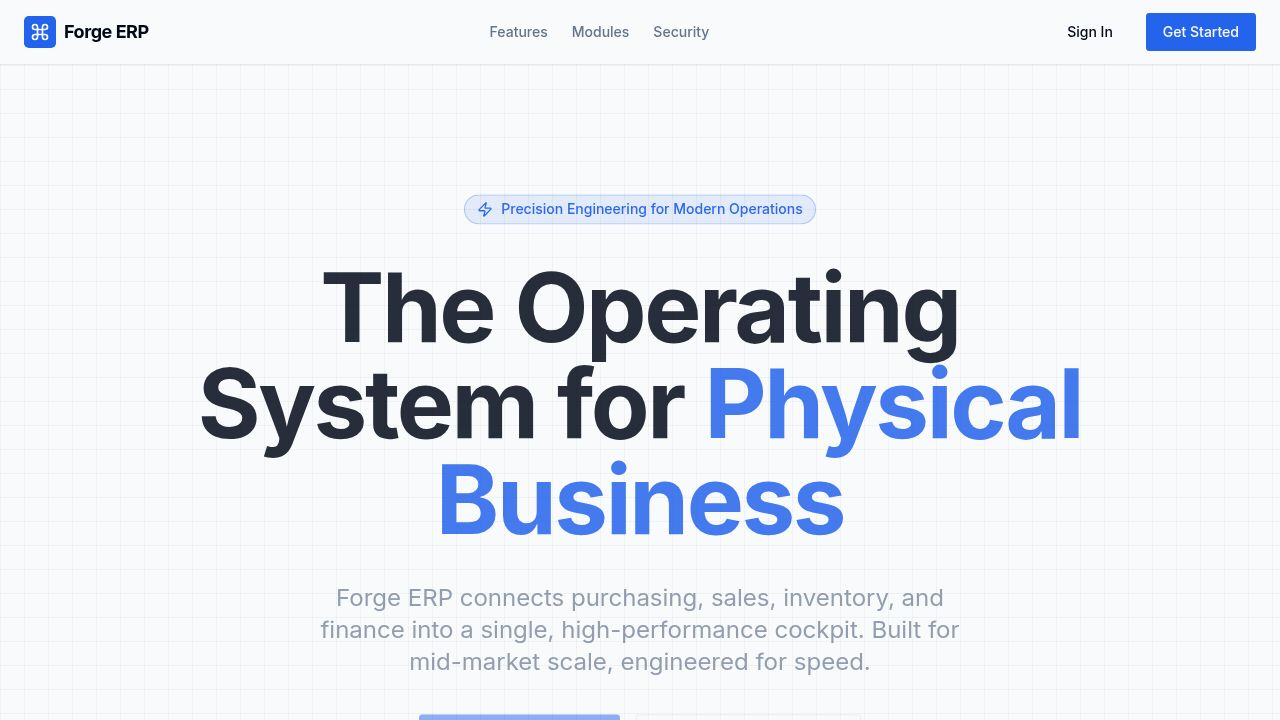
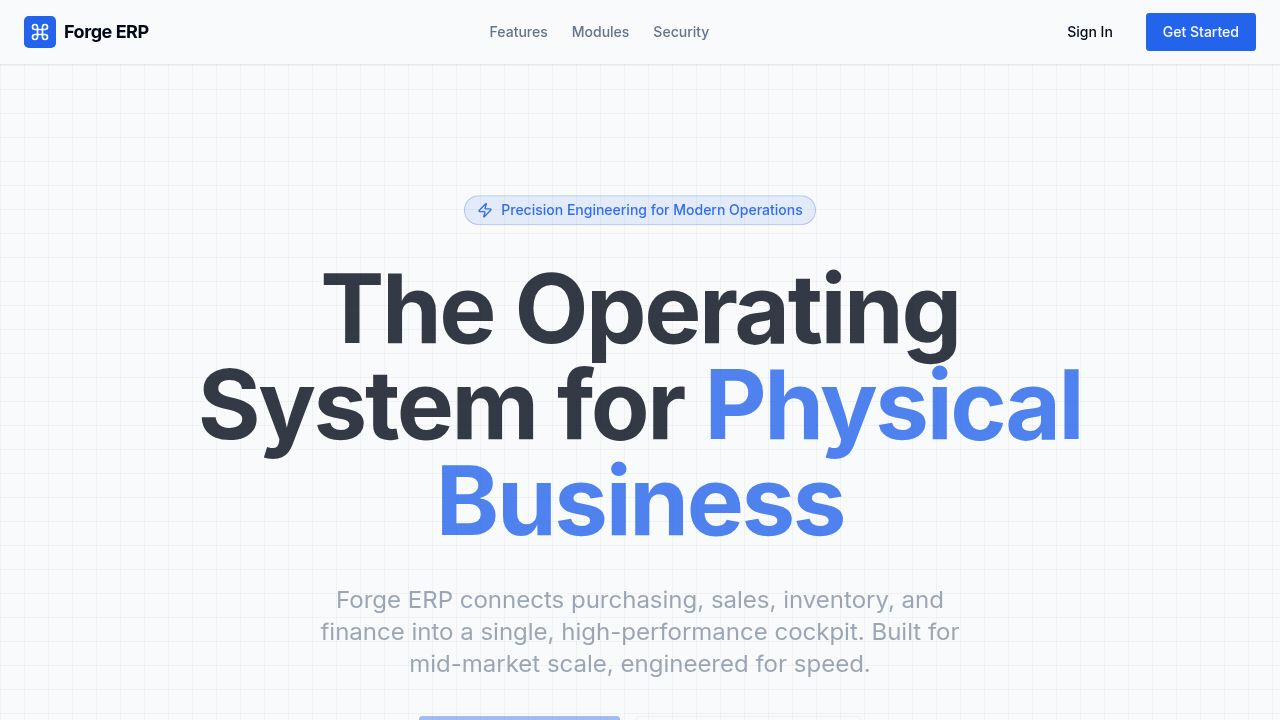
Task #58: Add Preferred Supplier, Supplier Item Number, and Alternative Suppliers to items
- Schema: added `preferred_supplier_id` (integer FK → suppliers.id, ON DELETE SET NULL) and `supplier_item_number` (text) to itemsTable. NOTE: this project uses `drizzle-kit push` exclusively (no migrations directory; only `push` / `push-force` scripts in lib/db/package.json), so the schema is the source of truth. Pushed to DB and FK constraint verified via `\d items`.
- OpenAPI: extended MasterItem and CreateItemBody with the two new fields; MasterItemDetail also returns preferredSupplierName.
- API: BOTH item GET endpoints (`/items/:id` and `/items/lookup?code=`) now resolve and return preferredSupplierName from suppliers; itemCreateSchema (POST + PATCH) accepts the new fields.
- UI (Item modal): new "Supplier" section with Preferred Supplier select (driven by useListSuppliers), Supplier Item Number input, and an Alternative Suppliers sub-panel that reads/writes item_cross_references rows where ref_type='alternative' AND supplier_id is set. Supplier item # is required when adding an alternative supplier (matches API refCode min(1)).
- Generic Cross-References panel: removed the "Alternative" type option, hides alternative-supplier rows from its display, and preserves them on save so the new sub-panel remains the source of truth.
- Codegen + typecheck pass; e2e test (Clerk auth) verified the Supplier section renders, values persist across reopens, and Cross-References dropdown only offers Cross/Competitor.

Replit-Task-Id: d4697e12-ed37-462c-97b1-18344717ca61

diff --git a/artifacts/forge-erp/src/pages/master-data.tsx b/artifacts/forge-erp/src/pages/master-data.tsx
@@ -641,6 +641,7 @@ type CrossRefEntry = {
   refType: string;
   refCode: string;
   refDescription?: string;
+  supplierId?: number;
   competitorName?: string;
   competitorPrice?: string;
 };
@@ -652,31 +653,49 @@ function ItemCrossRefsPanel({ itemId }: { itemId: number }) {
   const crossRefs = (data?.crossRefs ?? []) as ItemCrossReference[];
 
   const [localRefs, setLocalRefs] = useState<CrossRefEntry[]>([]);
-  const [newType, setNewType] = useState("alternative");
+  const [newType, setNewType] = useState("cross");
   const [newCode, setNewCode] = useState("");
   const [newDesc, setNewDesc] = useState("");
   const [newCompetitorName, setNewCompetitorName] = useState("");
   const [newCompetitorPrice, setNewCompetitorPrice] = useState("");
 
   useEffect(() => {
-    setLocalRefs(crossRefs.map((r) => ({
-      refType: r.refType ?? "alternative",
-      refCode: r.refCode ?? "",
-      refDescription: r.refDescription ?? undefined,
-      competitorName: (r as { competitorName?: string }).competitorName ?? undefined,
-      competitorPrice: (r as { competitorPrice?: string }).competitorPrice ?? undefined,
-    })));
+    // Alternative-supplier rows (refType=alternative with supplierId) are now
+    // surfaced via the AlternativeSuppliersPanel — exclude them here.
+    setLocalRefs(crossRefs
+      .filter((r) => !(r.refType === "alternative" && (r as { supplierId?: number | null }).supplierId))
+      .map((r) => ({
+        refType: r.refType ?? "cross",
+        refCode: r.refCode ?? "",
+        refDescription: r.refDescription ?? undefined,
+        supplierId: (r as { supplierId?: number | null }).supplierId ?? undefined,
+        competitorName: (r as { competitorName?: string }).competitorName ?? undefined,
+        competitorPrice: (r as { competitorPrice?: string }).competitorPrice ?? undefined,
+      })));
   }, [data]);
 
   const save = async (updated: CrossRefEntry[]) => {
     try {
-      const payload: ItemCrossReferenceInput[] = updated.map((r) => ({
-        refType: r.refType as ItemCrossReferenceInput["refType"],
-        refCode: r.refCode,
-        refDescription: r.refDescription,
-        competitorName: r.competitorName,
-        competitorPrice: r.competitorPrice ? Number(r.competitorPrice) : undefined,
-      }));
+      // Preserve alternative-supplier rows owned by AlternativeSuppliersPanel
+      const altSupplierRows: ItemCrossReferenceInput[] = crossRefs
+        .filter((r) => r.refType === "alternative" && (r as { supplierId?: number | null }).supplierId)
+        .map((r) => ({
+          refType: "alternative" as const,
+          refCode: r.refCode ?? "",
+          refDescription: r.refDescription ?? undefined,
+          supplierId: (r as { supplierId?: number | null }).supplierId ?? undefined,
+        }));
+      const payload: ItemCrossReferenceInput[] = [
+        ...altSupplierRows,
+        ...updated.map((r) => ({
+          refType: r.refType as ItemCrossReferenceInput["refType"],
+          refCode: r.refCode,
+          refDescription: r.refDescription,
+          supplierId: r.supplierId,
+          competitorName: r.competitorName,
+          competitorPrice: r.competitorPrice ? Number(r.competitorPrice) : undefined,
+        })),
+      ];
       await setCrossRefs.mutateAsync({ id: itemId, data: payload });
       toast({ title: "Cross-references saved" });
       refetch();
@@ -707,6 +726,7 @@ function ItemCrossRefsPanel({ itemId }: { itemId: number }) {
   return (
     <div className="space-y-3 pt-2 border-t">
       <h4 className="text-sm font-semibold">Cross-References &amp; Competitor Pricing</h4>
+      <p className="text-xs text-muted-foreground">For supplier alternatives, use the Supplier section above.</p>
       {localRefs.length > 0 ? (
         <div className="rounded border divide-y text-sm">
           {localRefs.map((r, i) => (
@@ -729,7 +749,6 @@ function ItemCrossRefsPanel({ itemId }: { itemId: number }) {
           <Select value={newType} onValueChange={setNewType}>
             <SelectTrigger className="h-8 text-xs w-32"><SelectValue /></SelectTrigger>
             <SelectContent>
-              <SelectItem value="alternative">Alternative</SelectItem>
               <SelectItem value="cross">Cross</SelectItem>
               <SelectItem value="competitor">Competitor</SelectItem>
             </SelectContent>
@@ -744,6 +763,118 @@ function ItemCrossRefsPanel({ itemId }: { itemId: number }) {
           </div>
         )}
         <Button size="sm" className="h-8" onClick={addRef} disabled={setCrossRefs.isPending || !newCode.trim()}>
+          <Plus className="h-3 w-3 mr-1" /> Add
+        </Button>
+      </div>
+    </div>
+  );
+}
+
+// ─── Alternative Suppliers Panel ──────────────────────────────────────────────
+
+type AltSupplierEntry = {
+  supplierId: number;
+  supplierItemNumber: string;
+};
+
+function AlternativeSuppliersPanel({ itemId }: { itemId: number }) {
+  const { toast } = useToast();
+  const { data, refetch } = useGetItem(itemId);
+  const setCrossRefs = useSetItemCrossReferences();
+  const suppliersQ = useListSuppliers({ limit: 200 });
+  const suppliers = suppliersQ.data?.suppliers ?? [];
+  const crossRefs = (data?.crossRefs ?? []) as ItemCrossReference[];
+
+  const [local, setLocal] = useState<AltSupplierEntry[]>([]);
+  const [newSupplierId, setNewSupplierId] = useState<string>("");
+  const [newPart, setNewPart] = useState("");
+
+  useEffect(() => {
+    setLocal(
+      crossRefs
+        .filter((r) => r.refType === "alternative" && (r as { supplierId?: number | null }).supplierId)
+        .map((r) => ({
+          supplierId: (r as { supplierId?: number | null }).supplierId as number,
+          supplierItemNumber: r.refCode ?? "",
+        })),
+    );
+  }, [data]);
+
+  const save = async (updatedAlts: AltSupplierEntry[]) => {
+    try {
+      // Preserve all non-alternative-supplier rows (cross, competitor, alternative w/o supplier).
+      const others: ItemCrossReferenceInput[] = crossRefs
+        .filter((r) => !(r.refType === "alternative" && (r as { supplierId?: number | null }).supplierId))
+        .map((r) => ({
+          refType: (r.refType ?? "cross") as ItemCrossReferenceInput["refType"],
+          refCode: r.refCode ?? "",
+          refDescription: r.refDescription ?? undefined,
+          supplierId: (r as { supplierId?: number | null }).supplierId ?? undefined,
+          competitorName: (r as { competitorName?: string | null }).competitorName ?? undefined,
+          competitorPrice: (r as { competitorPrice?: string | null }).competitorPrice
+            ? Number((r as { competitorPrice?: string }).competitorPrice) : undefined,
+        }));
+      const payload: ItemCrossReferenceInput[] = [
+        ...others,
+        ...updatedAlts.map((a) => ({
+          refType: "alternative" as const,
+          refCode: a.supplierItemNumber.trim(),
+          supplierId: a.supplierId,
+        })),
+      ];
+      await setCrossRefs.mutateAsync({ id: itemId, data: payload });
+      toast({ title: "Alternative suppliers saved" });
+      refetch();
+    } catch (e: unknown) { toast({ title: "Error", description: (e as Error).message, variant: "destructive" }); }
+  };
+
+  const addAlt = () => {
+    if (!newSupplierId || !newPart.trim()) return;
+    const entry: AltSupplierEntry = {
+      supplierId: Number(newSupplierId),
+      supplierItemNumber: newPart.trim(),
+    };
+    const updated = [...local, entry];
+    setLocal(updated);
+    setNewSupplierId(""); setNewPart("");
+    save(updated);
+  };
+
+  const removeAlt = (idx: number) => {
+    const updated = local.filter((_, i) => i !== idx);
+    setLocal(updated);
+    save(updated);
+  };
+
+  const supplierName = (id: number) => suppliers.find((s) => s.id === id)?.name ?? `Supplier #${id}`;
+
+  return (
+    <div className="space-y-2">
+      <Label className="text-sm font-medium">Alternative Suppliers</Label>
+      {local.length > 0 ? (
+        <div className="rounded border divide-y text-sm">
+          {local.map((a, i) => (
+            <div key={i} className="flex items-center gap-2 px-3 py-1.5">
+              <span className="flex-1 text-xs font-medium">{supplierName(a.supplierId)}</span>
+              <span className="text-muted-foreground text-xs font-mono">{a.supplierItemNumber}</span>
+              <Button variant="ghost" size="icon" className="h-6 w-6" onClick={() => removeAlt(i)}>
+                <Trash2 className="h-3 w-3 text-destructive" />
+              </Button>
+            </div>
+          ))}
+        </div>
+      ) : <p className="text-xs text-muted-foreground">No alternative suppliers yet.</p>}
+      <div className="flex gap-2 items-end">
+        <div className="flex-1">
+          <Select value={newSupplierId} onValueChange={setNewSupplierId}>
+            <SelectTrigger className="h-8 text-xs"><SelectValue placeholder="Choose supplier…" /></SelectTrigger>
+            <SelectContent>
+              {suppliers.map((s) => <SelectItem key={s.id} value={String(s.id)}>{s.name}</SelectItem>)}
+            </SelectContent>
+          </Select>
+        </div>
+        <Input value={newPart} onChange={(e) => setNewPart(e.target.value)} placeholder="Supplier item # (required)" className="h-8 text-xs w-40" />
+        <Button size="sm" className="h-8" onClick={addAlt} disabled={!newSupplierId || !newPart.trim() || setCrossRefs.isPending}>
           <Plus className="h-3 w-3 mr-1" /> Add
         </Button>
       </div>
@@ -1259,6 +1390,9 @@ function ItemModal({
     },
   });
 
+  const suppliersQ = useListSuppliers({ limit: 200 });
+  const suppliers = suppliersQ.data?.suppliers ?? [];
+
   useEffect(() => {
     if (open) {
       reset({
@@ -1274,6 +1408,8 @@ function ItemModal({
         category: item?.category ?? "",
         notes: item?.notes ?? "",
         isActive: item?.isActive ?? true,
+        preferredSupplierId: (item as { preferredSupplierId?: number | null })?.preferredSupplierId ?? null,
+        supplierItemNumber: (item as { supplierItemNumber?: string | null })?.supplierItemNumber ?? "",
       });
     }
   }, [open, item, reset]);
@@ -1350,6 +1486,35 @@ function ItemModal({
           <FormField label="Category">
             <Input {...register("category")} />
           </FormField>
+          <div className="space-y-3 pt-3 border-t">
+            <h4 className="text-sm font-semibold">Supplier</h4>
+            <div className="grid grid-cols-2 gap-4">
+              <FormField label="Preferred Supplier">
+                <Controller
+                  control={control}
+                  name="preferredSupplierId"
+                  render={({ field }) => (
+                    <Select
+                      value={field.value != null ? String(field.value) : "__none__"}
+                      onValueChange={(v) => field.onChange(v === "__none__" ? null : Number(v))}
+                    >
+                      <SelectTrigger><SelectValue placeholder="None" /></SelectTrigger>
+                      <SelectContent>
+                        <SelectItem value="__none__">None</SelectItem>
+                        {suppliers.map((s) => (
+                          <SelectItem key={s.id} value={String(s.id)}>{s.name}</SelectItem>
+                        ))}
+                      </SelectContent>
+                    </Select>
+                  )}
+                />
+              </FormField>
+              <FormField label="Supplier Item Number">
+                <Input {...register("supplierItemNumber")} placeholder="Supplier's part #" />
+              </FormField>
+            </div>
+            {isEdit && item?.id && <AlternativeSuppliersPanel itemId={item.id} />}
+          </div>
           <div className="flex items-center gap-2">
             <Controller control={control} name="isActive" render={({ field }) => (
               <Switch checked={field.value ?? true} onCheckedChange={field.onChange} id="item-active" />

diff --git a/artifacts/api-server/src/routes/master-data.ts b/artifacts/api-server/src/routes/master-data.ts
@@ -160,7 +160,17 @@ router.get(
       withTenantDb(tenantId, (db) => db.select().from(itemLocationsTable).where(and(eq(itemLocationsTable.itemId, id), eq(itemLocationsTable.tenantId, tenantId)))),
       withTenantDb(tenantId, (db) => db.select().from(itemCrossReferencesTable).where(and(eq(itemCrossReferencesTable.itemId, id), eq(itemCrossReferencesTable.tenantId, tenantId)))),
     ]);
-    res.json({ ...items[0], variants, attributes, locations, crossRefs });
+    let preferredSupplierName: string | null = null;
+    const prefId = (items[0] as { preferredSupplierId?: number | null }).preferredSupplierId;
+    if (prefId) {
+      const sup = await withTenantDb(tenantId, (db) =>
+        db.select({ name: suppliersTable.name }).from(suppliersTable)
+          .where(and(eq(suppliersTable.id, prefId), eq(suppliersTable.tenantId, tenantId)))
+          .limit(1),
+      );
+      preferredSupplierName = sup[0]?.name ?? null;
+    }
+    res.json({ ...items[0], preferredSupplierName, variants, attributes, locations, crossRefs });
   },
 );
 
@@ -198,7 +208,18 @@ router.get(
     ]);
 
     if (!item[0]) { res.status(404).json({ error: "Item not found" }); return; }
-    res.json({ ...item[0], variants, attributes, locations, crossRefs });
+
+    let preferredSupplierName: string | null = null;
+    const prefId = (item[0] as { preferredSupplierId?: number | null }).preferredSupplierId;
+    if (prefId) {
+      const sup = await withTenantDb(tenantId, (db) =>
+        db.select({ name: suppliersTable.name }).from(suppliersTable)
+          .where(and(eq(suppliersTable.id, prefId), eq(suppliersTable.tenantId, tenantId)))
+          .limit(1),
+      );
+      preferredSupplierName = sup[0]?.name ?? null;
+    }
+    res.json({ ...item[0], preferredSupplierName, variants, attributes, locations, crossRefs });
   },
 );
 
@@ -219,6 +240,8 @@ const itemCreateSchema = z.object({
   isActive: z.boolean().default(true),
   hasVariants: z.boolean().default(false),
   notes: z.string().optional(),
+  preferredSupplierId: z.number().int().nullable().optional(),
+  supplierItemNumber: z.string().nullable().optional(),
 });
 
 router.post(

diff --git a/lib/db/src/schema/master_data.ts b/lib/db/src/schema/master_data.ts
@@ -7,6 +7,7 @@ import {
   numeric,
   boolean,
   jsonb,
+  type AnyPgColumn,
 } from "drizzle-orm/pg-core";
 import { tenantsTable } from "./tenants";
 
@@ -87,6 +88,10 @@ export const itemsTable = pgTable("items", {
   isActive: boolean("is_active").notNull().default(true),
   hasVariants: boolean("has_variants").notNull().default(false),
   notes: text("notes"),
+  /** Preferred supplier for this item (FK -> suppliers.id). */
+  preferredSupplierId: integer("preferred_supplier_id").references((): AnyPgColumn => suppliersTable.id, { onDelete: "set null" }),
+  /** Preferred supplier's part number for this item. */
+  supplierItemNumber: text("supplier_item_number"),
   createdAt: timestamp("created_at", { withTimezone: true }).notNull().defaultNow(),
   updatedAt: timestamp("updated_at", { withTimezone: true }).notNull().defaultNow().$onUpdate(() => new Date()),
   deletedAt: timestamp("deleted_at", { withTimezone: true }),